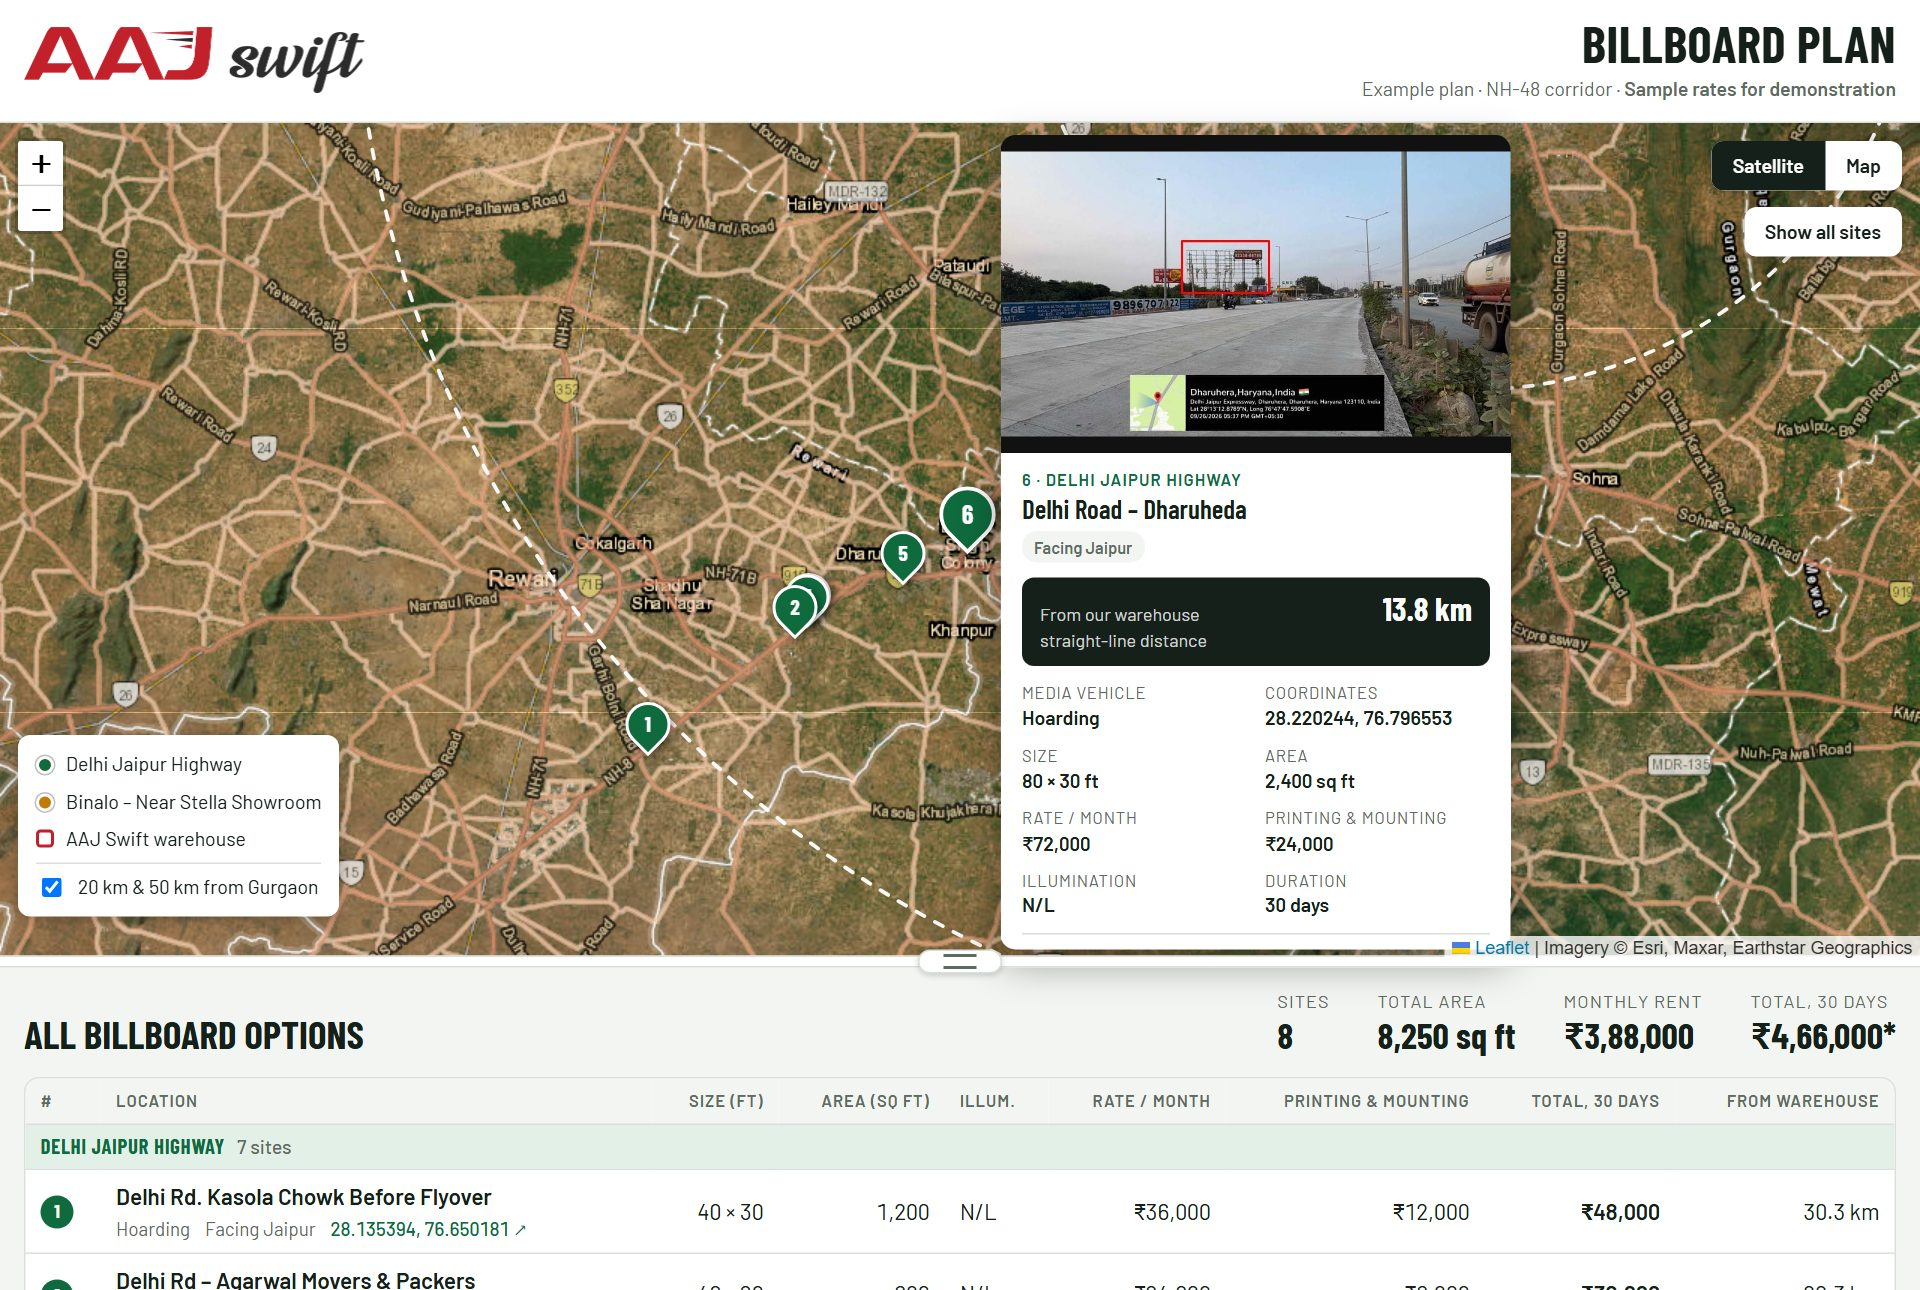
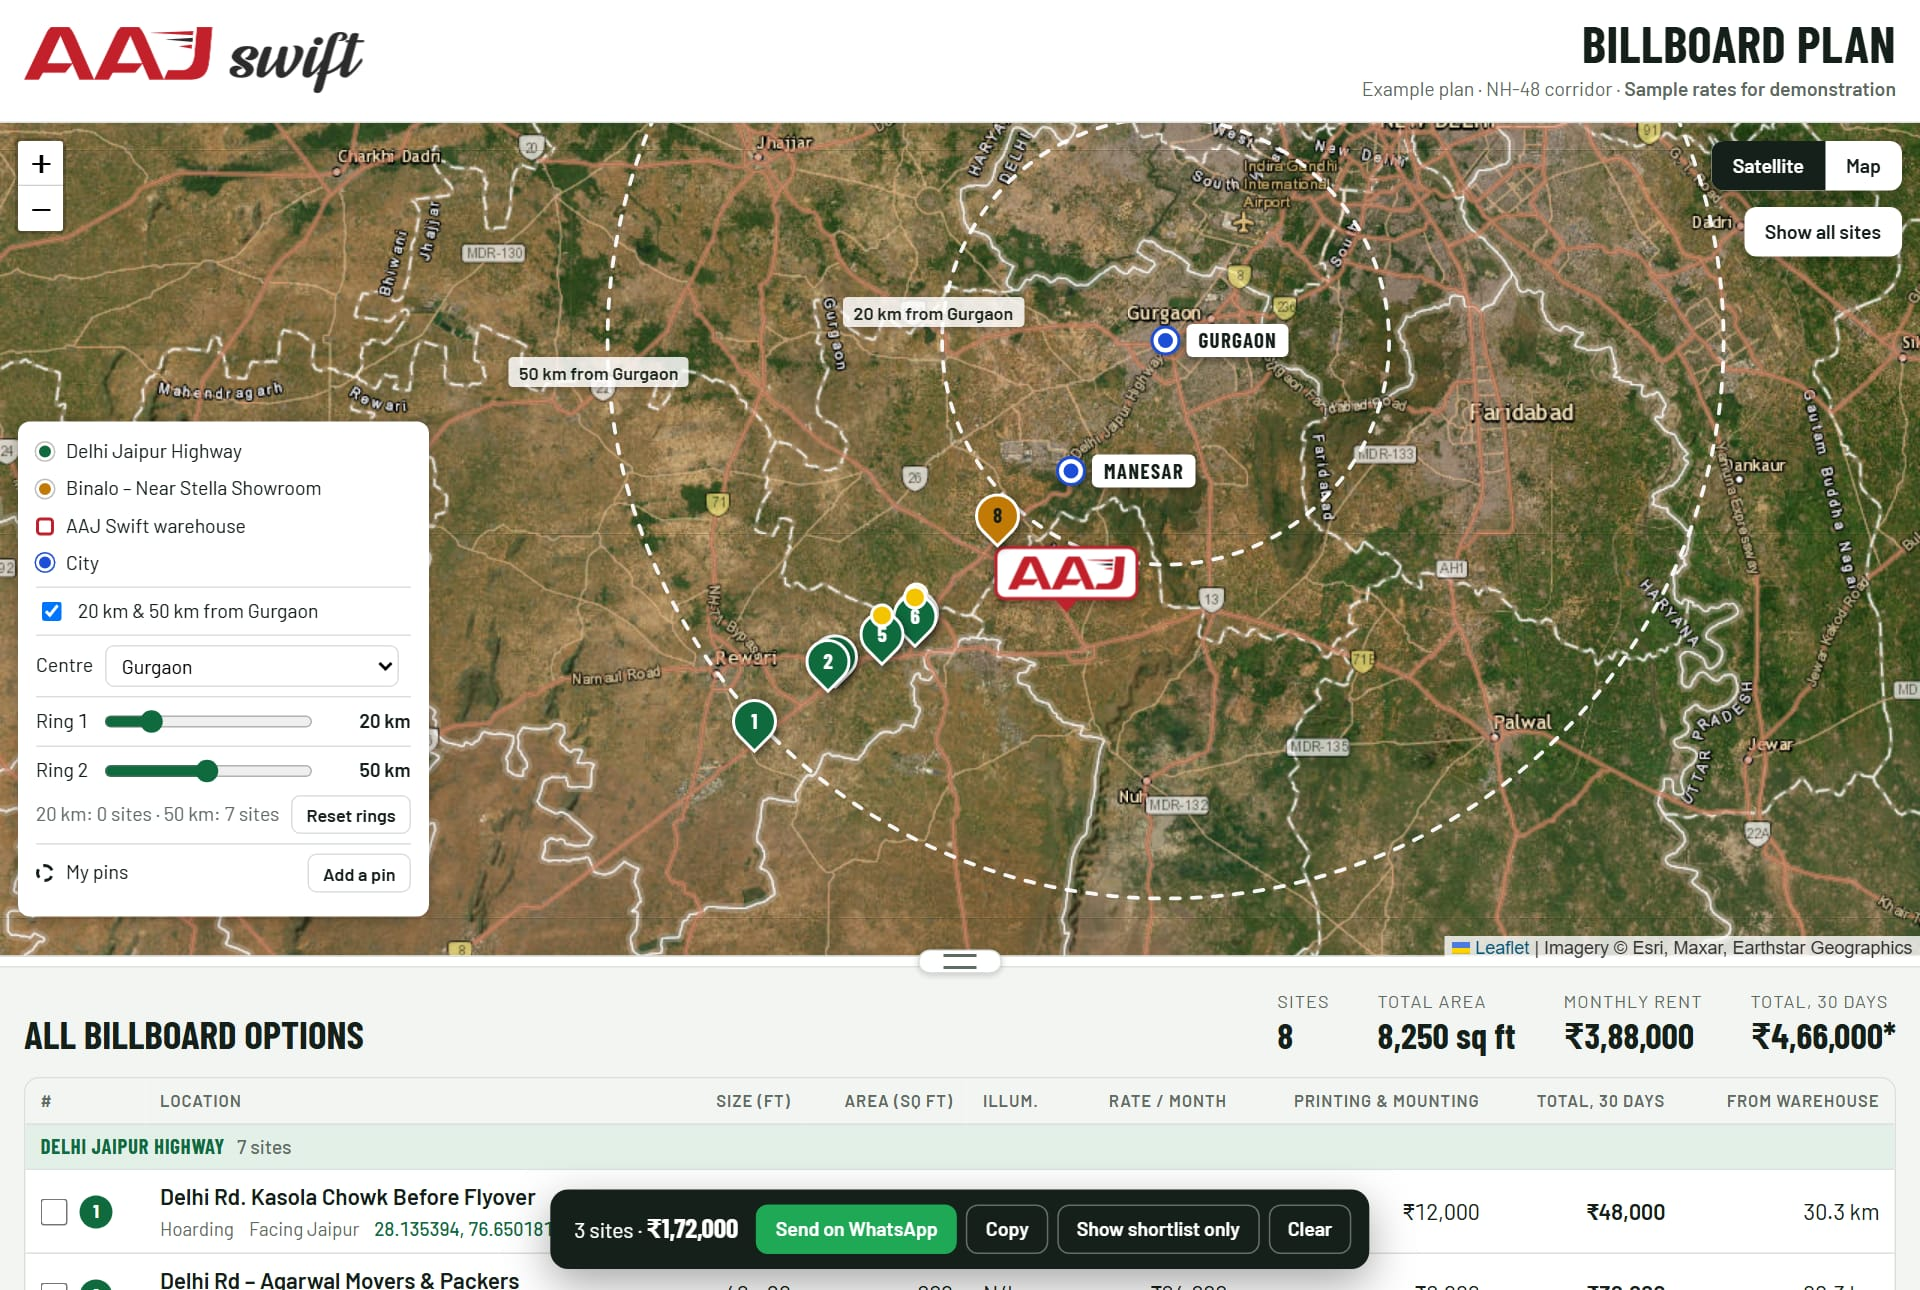
docs: fresh screenshots, stale notes fixed, leftover files removed
- New README screenshot showing city pins, ring sliders and the shortlist bar; add a phone screenshot of the site card
- Remove the design critique snapshot and the executed implementation plan (both done)
- docs/README is now an index instead of a placeholder
- Template README: current storage key; templates README: npm run plan instead of an unpublished npx command

diff --git a/README.md b/README.md
@@ -2,7 +2,7 @@
 
 **See every billboard before you book it.**
 
-![The AAJ Swift NH-48 example: satellite map with numbered pins, the warehouse marker, 20 and 50 km rings, a site card with photo and 13.8 km distance, and the costing table](docs/images/aaj-swift-example.jpg)
+![The AAJ Swift NH-48 example: satellite map with numbered site pins, the warehouse marker, Gurgaon and Manesar city pins, 20 and 50 km rings with sliders, a shortlist of three sites ready to send on WhatsApp, and the costing table](docs/images/aaj-swift-example.jpg)
 
 Media vendors send billboard options as a spreadsheet: a location name, a size, a rate, and if you are lucky, a photo and a pair of coordinates. Deciding from that means jumping between Excel, Google Maps and WhatsApp photos, and still not knowing which board faces which way or how far it is from where your customers are.
 
@@ -27,6 +27,8 @@ Open the app and choose **View example** to explore a real plan: seven hoardings
 - ✅ **Shortlist and send**: tick the sites you want and send the list, with sizes, costs and map links, on WhatsApp
 - ⬇ **Exports**: download the table as CSV (opens in Excel) or KML (Google Earth), or print a clean copy
 - 🧭 Reads vendor coordinates in any common format, including degrees-minutes-seconds
+
+<img src="docs/images/aaj-swift-phone.jpg" width="292" alt="The same plan on a phone: tapping a pin opens the site card along the bottom of the map with its photo, the 30-day total and the distance from the warehouse">
 
 ### Made for
 Marketing teams, media planners and agencies who buy outdoor (OOH) media: hoardings, unipoles, gantries and bus shelters.

diff --git a/packages/template/README.md b/packages/template/README.md
@@ -12,7 +12,7 @@ writeFileSync("plan.html", renderPlan(plan));
 
 ## Plan data
 
-This is the resolved data the page renders, not the user-facing `plan.yaml`: coordinates are already decimal, and photos and logos should already be `data:` URIs for a self-contained file (plain paths or URLs also work if the files sit next to the page). `packages/core` will turn a `plan.yaml` or spreadsheet into this shape.
+This is the resolved data the page renders, not the user-facing `plan.yaml`: coordinates are already decimal, and photos and logos should already be `data:` URIs for a self-contained file (plain paths or URLs also work if the files sit next to the page). `packages/core` turns a `plan.yaml` or spreadsheet into this shape.
 
 | Field | Meaning |
 |---|---|
@@ -37,7 +37,7 @@ Each site: `{ id, group, mediaVehicle, location, facing, lat, lng, widthFt, heig
 
 ## What viewers can do on the page
 
-Kept in the viewer's browser only (`localStorage` key `bbp:v1:<title>`; if storage is blocked it lasts for the visit):
+Kept in the viewer's browser only (`localStorage` key `bbp:v1:<title>:<hash of the site locations>`, so two plans with the same title keep separate state; if storage is blocked it lasts for the visit):
 
 - **My pins:** Add a pin, tap the map, name it; listed under My pins in the map key with a remove button.
 - **Rings:** one slider per ring (1–100 km) and a centre picker (the plan's centre, any base, any pin, or their own pins), with the number of sites inside each ring; Reset rings returns to the plan.

diff --git a/docs/README.md b/docs/README.md
@@ -1,3 +1,8 @@
 # Docs
 
-Guides for plan files, the spreadsheet template, tile providers and hosting will live here.
+- [Viewer tools design](superpowers/specs/2026-11-17-viewer-tools-design.md): why the page has pins, radius sliders, a shortlist, the phone card and exports, and the choices behind them.
+- [GitHub workflows](github-workflows/README.md): readable copies of the CI and Pages workflows.
+- [GitHub repository settings](github-about.md): the About text, topics and Pages setup.
+- [`images/`](images): screenshots used in the main README.
+
+Plan files, the spreadsheet, tile providers and sharing are covered in the [main README](../README.md) and the package READMEs ([core](../packages/core/README.md), [cli](../packages/cli/README.md), [template](../packages/template/README.md), [app](../packages/app/README.md)).

diff --git a/templates/README.md b/templates/README.md
@@ -3,7 +3,7 @@
 [`sites-template.xlsx`](sites-template.xlsx): a blank vendor sheet for Billboard Planner. Fill the **Sites** sheet (one row per billboard), optionally the **Plan** and **Groups** sheets, then build it:
 
 ```bash
-npx billboard-planner build sites.xlsx
+npm run plan -- build sites.xlsx    # from the repository root, after npm install && npm run build
 ```
 
 The **Read me** sheet inside explains each column. Regenerate the file with `node packages/cli/scripts/make-template.mjs`.
